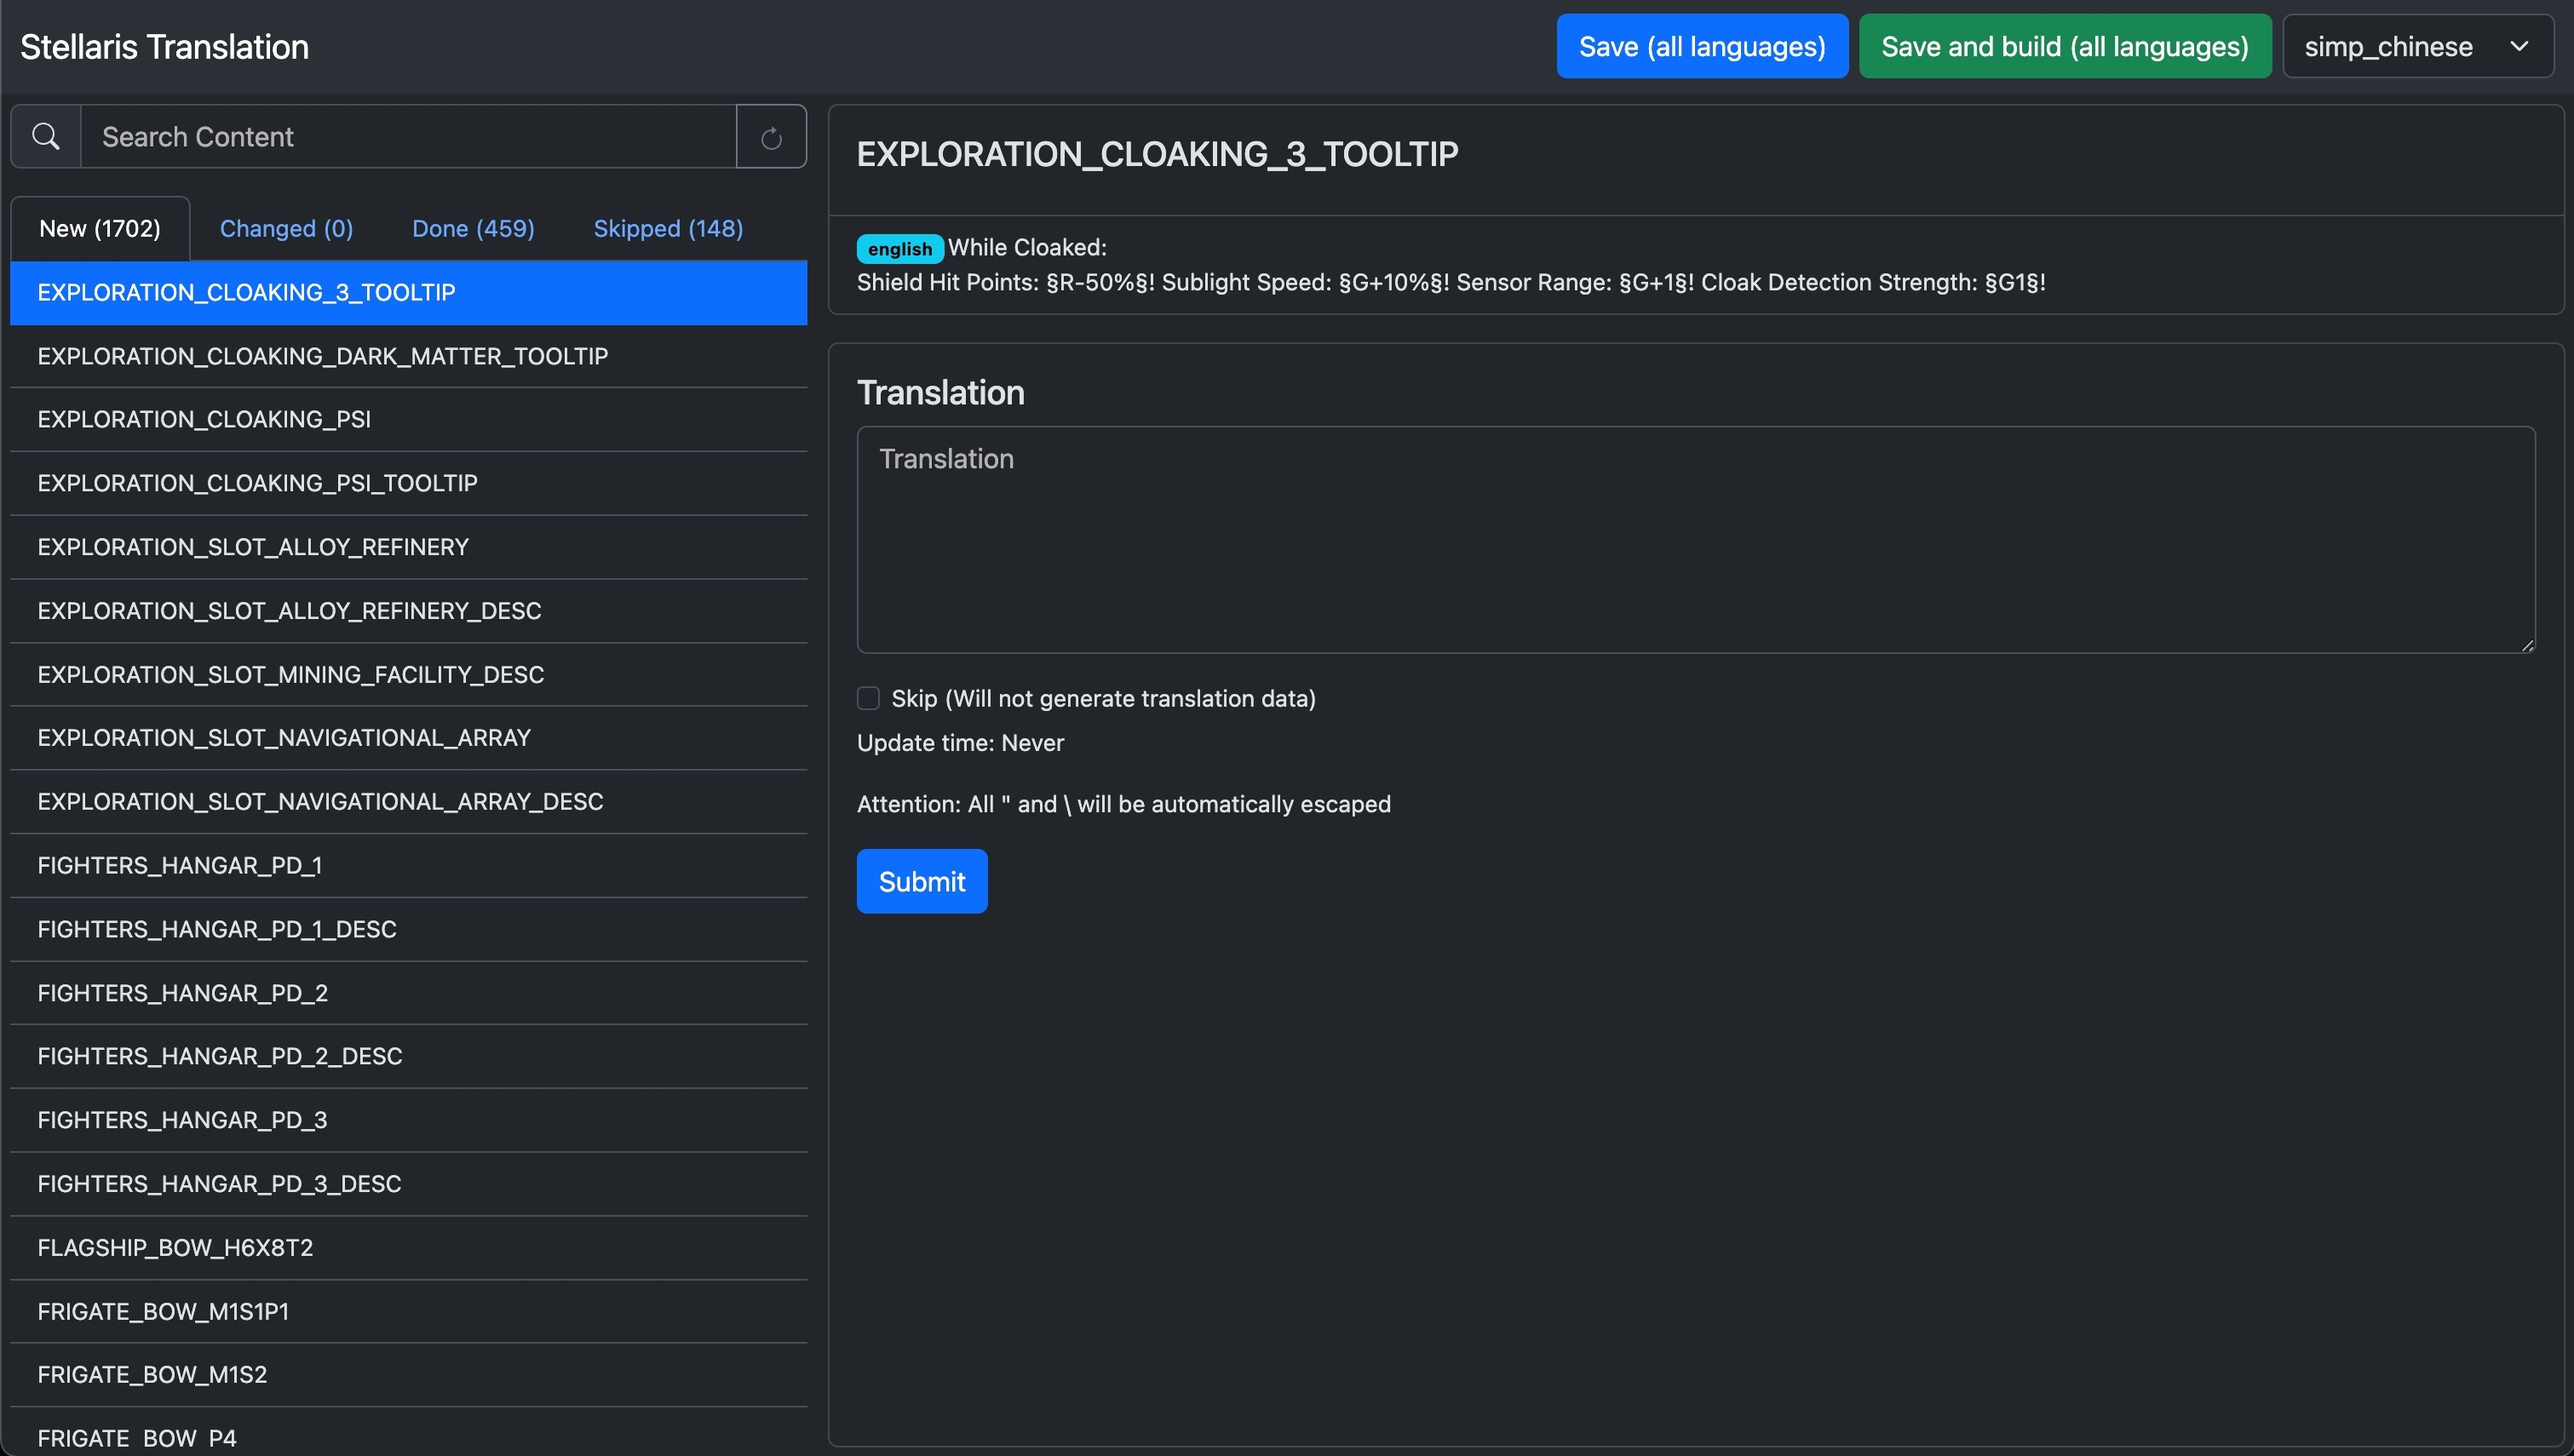
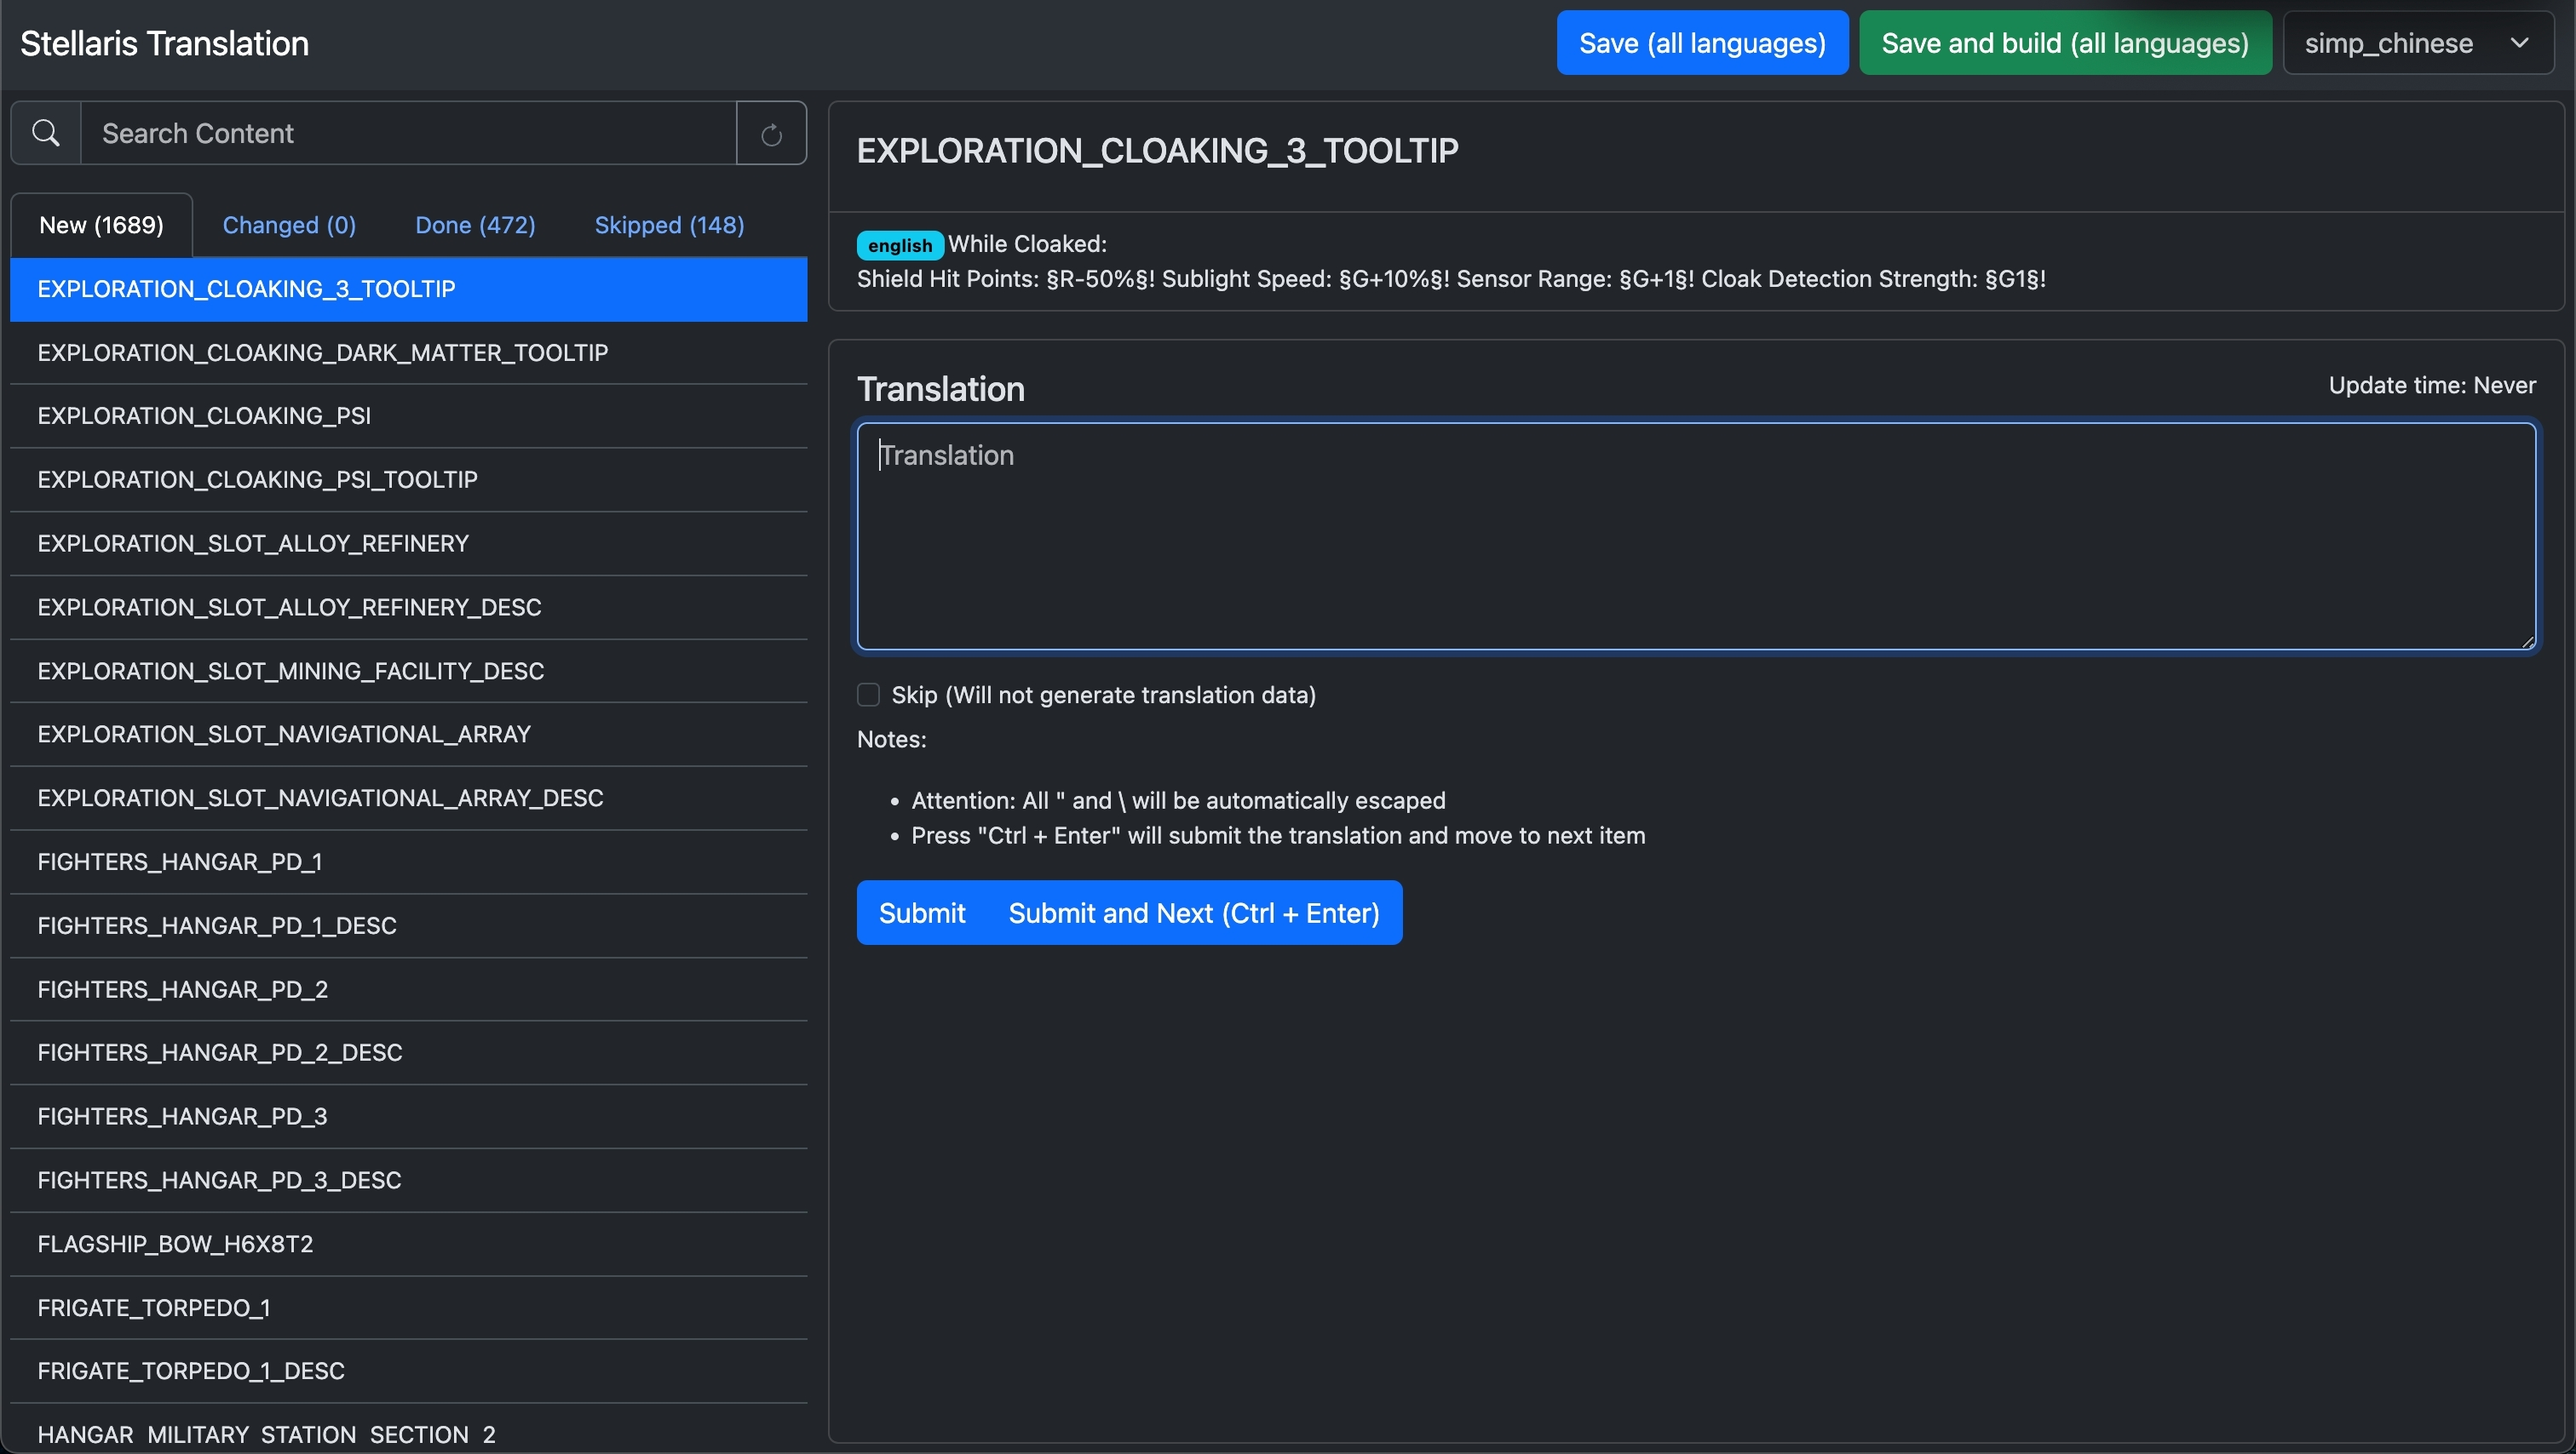
Add submit shotcut key and auto move to next item

Changed region(s): [[0.0, 0.0, 1.0, 1.0], [0.2799, 0.0621, 0.5599, 0.1241]]

diff --git a/web/static/assets/index.js b/web/static/assets/index.js
@@ -2,6 +2,12 @@ var language = "";
 
 const handleInputSearchKeyKeyUp = _.debounce(async e => await updateTranslationKeys(e.target.value ?? ""), 500);
 
+/*
+
+Navbar
+
+*/
+
 async function handleSaveClick() {
   try {
     const response = await fetch("/_/save", { method: "POST" });
@@ -37,6 +43,12 @@ async function handleSaveAndBuildClick() {
     showErrorModal(`${e}`, "Save and build failed");
   }
 }
+
+/*
+
+Translation key list
+
+*/
 
 async function updateTranslationKeys(query) {
   try {
@@ -76,8 +88,39 @@ async function handleTranslationKeyItemClick(e) {
   // Switch active state
   document.querySelectorAll(".translation-key-item.active").forEach(element => element.classList.remove("active"));
   e.target.classList.add("active");
-  // Fetch data and update translation content
-  const key = e.target.dataset.value;
+  // Update translation content
+  const succeed = await updateTranslationContent(e.target.dataset.value);
+  if (succeed) {
+    document.getElementById("input-translation-translate-value").focus();
+  }
+}
+
+async function moveToNextTranslationKeyItem() {
+  // Get next key of current active element
+  const activeKeyItems = document.querySelectorAll(".translation-key-item.active");
+  if (activeKeyItems.length !== 1) {
+    return;
+  }
+  const nextElement = activeKeyItems[0].nextElementSibling;
+  if (nextElement && nextElement.dataset.value) {
+    // Move to this item
+    document.querySelectorAll(".translation-key-item.active").forEach(element => element.classList.remove("active"));
+    nextElement.classList.add("active");
+    // Update translation content
+    const succeed = await updateTranslationContent(nextElement.dataset.value);
+    if (succeed) {
+      document.getElementById("input-translation-translate-value").focus();
+    }
+  }
+}
+
+/*
+
+Translation content
+
+*/
+
+async function updateTranslationContent(key) {
   if (key) {
     try {
       const response = await fetch(`/_/translation?key=${encodeURIComponent(key)}&language=${encodeURIComponent(language)}`);
@@ -86,20 +129,22 @@ async function handleTranslationKeyItemClick(e) {
         if (data?.ok !== true) {
           throw new Error(`Error: ${data?.message}`);
         }
-        updateTranslationContent(data.data);
+        renderTranslationContent(data.data);
       } else {
         throw new Error(`Http Error #${response.status}: ${response.statusText}`);
       }
+      return true;
     } catch (e) {
       showErrorModal(`${e}`, "Get translation data failed");
-      updateTranslationContent();
+      renderTranslationContent();
     }
   } else {
-    updateTranslationContent();
+    renderTranslationContent();
   }
+  return false;
 }
 
-function updateTranslationContent(data) {
+function renderTranslationContent(data) {
   // Original
   document.getElementById("translation-original-key").innerHTML = data?.source?.key ?? "";
   document.getElementById("translation-original-values").innerHTML = data?.source?.values?.length > 0
@@ -121,17 +166,27 @@ function updateTranslationContent(data) {
     document.getElementById("input-translation-translate-value").disabled = false;
     document.getElementById("checkbox-translation-translate-skipped").disabled = false;
     document.getElementById("btn-translation-submit").disabled = false;
+    document.getElementById("btn-translation-submit-and-next").disabled = false;
   } else {
     // Disable
     document.getElementById("input-translation-translate-value").disabled = true;
     document.getElementById("checkbox-translation-translate-skipped").disabled = true;
     document.getElementById("btn-translation-submit").disabled = true;
+    document.getElementById("btn-translation-submit-and-next").disabled = true;
   }
 }
 
-async function handleSubmitTranslationClick(e) {
-  e.preventDefault();
+async function handleTranslateValueTextAreaKeyPress(e) {
+  if (e.keyCode === 13 && e.ctrlKey) {
+    // Ctrl + Enter, submit it
+    const succeed = await submitTranslation();
+    if (succeed) {
+      moveToNextTranslationKeyItem();
+    }
+  }
+}
 
+async function submitTranslation() {
   // Post data
   const key = document.getElementById("translation-translate-key").value;
   const value = document.getElementById("input-translation-translate-value").value;
@@ -162,12 +217,20 @@ async function handleSubmitTranslationClick(e) {
     } else {
       throw new Error(`Http Error #${response.status}: ${response.statusText}`);
     }
+    return true;
   } catch (e) {
     showErrorModal(`${e}`, "Submit new translation failed");
   }
+  return false;
 }
 
-// Modal utility
+
+/*
+
+Modal utility
+
+*/
+
 var errorModal = null;
 var infoModal = null;
 
@@ -183,7 +246,12 @@ function showInfoModal(content, title = "Info") {
   infoModal.show();
 }
 
-// Alert utility
+/*
+
+Alert utility
+
+*/
+
 var successAlertContainer = null;
 var successAlertAutoCloseHandler = null;
 
@@ -199,7 +267,12 @@ function showSuccessAlert(message) {
 
 var tooltipList = null;
 
-// On loaded
+/*
+
+On loaded
+
+*/
+
 document.addEventListener("DOMContentLoaded", function () {
   // Initalize values
   language = document.getElementById("language-select").value;
@@ -218,7 +291,18 @@ document.addEventListener("DOMContentLoaded", function () {
   document.getElementById("input-search-key").addEventListener("keyup", handleInputSearchKeyKeyUp);
   document.getElementById("btn-refresh-keys").addEventListener("click", () =>
     updateTranslationKeys(document.getElementById("input-search-key").value));
-  document.getElementById("btn-translation-submit").addEventListener("click", handleSubmitTranslationClick);
+  document.getElementById("input-translation-translate-value").addEventListener("keypress", handleTranslateValueTextAreaKeyPress);
+  document.getElementById("btn-translation-submit").addEventListener("click", e => {
+    e.preventDefault();
+    submitTranslation();
+  });
+  document.getElementById("btn-translation-submit-and-next").addEventListener("click", async e => {
+    e.preventDefault();
+    const succeed = await submitTranslation();
+    if (succeed) {
+      moveToNextTranslationKeyItem();
+    }
+  });
 
   // Load keys
   updateTranslationKeys("");

diff --git a/web/static/assets/index.css b/web/static/assets/index.css
@@ -131,6 +131,12 @@ body {
   gap: 16px;
 }
 
+.translation-content-card-header {
+  display: flex;
+  flex-direction: row;
+  justify-content: space-between;
+}
+
 .translation-content-original-value {
   flex: 0 0 auto;
   overflow-y: auto;
